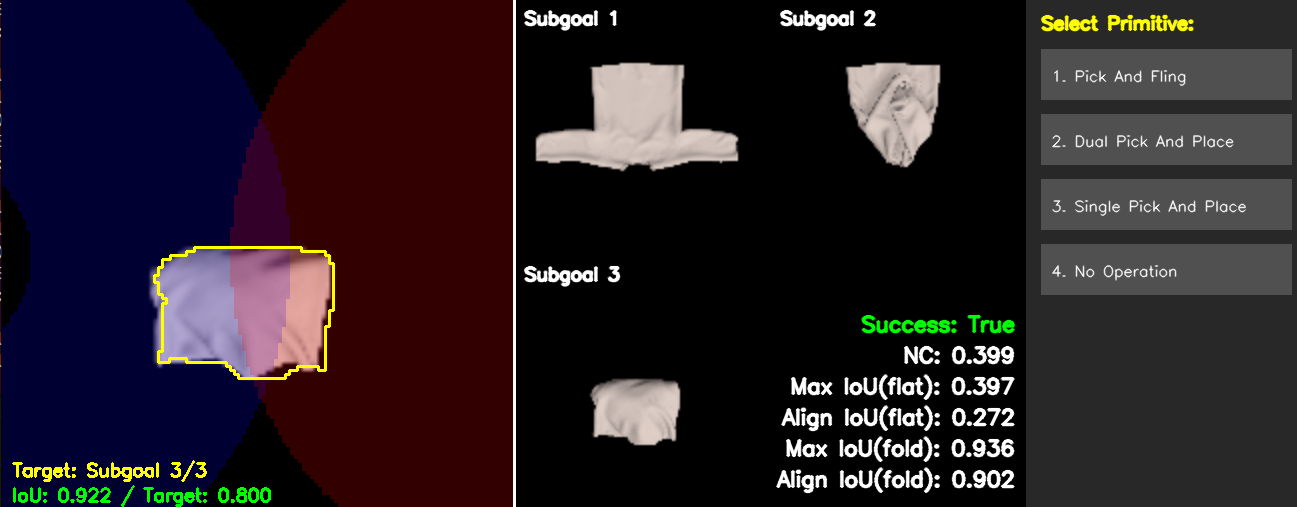
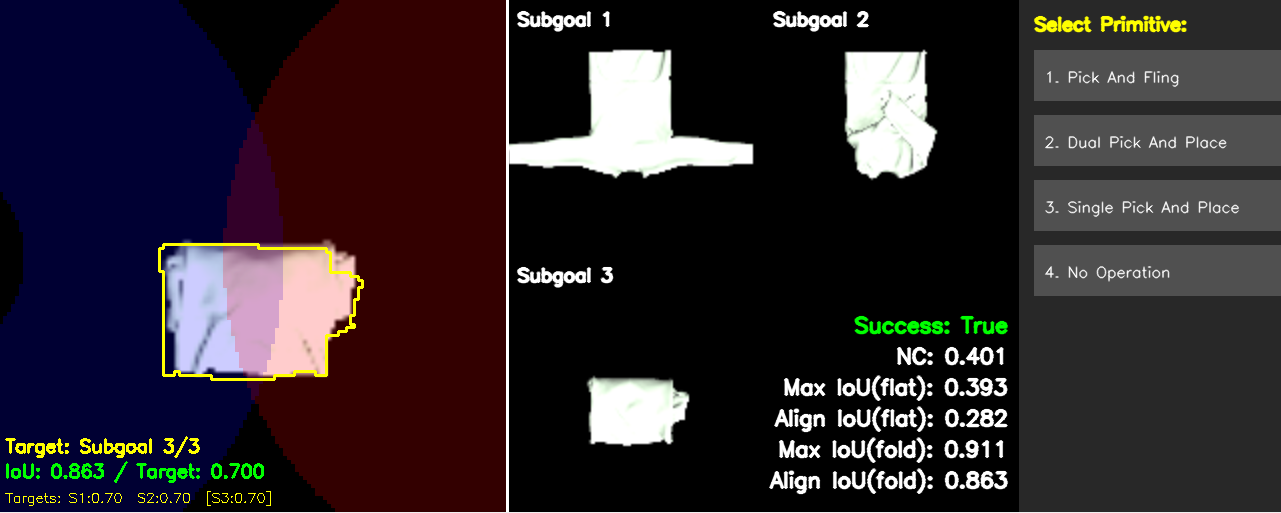
fix the bugs in the folding environment and polish appendix B

diff --git a/paper/example.tex b/paper/example.tex
@@ -280,7 +280,9 @@ We develop our proposed method MAGPIE based on the decoupled multi-primitive arc
 In this set of experiments, we benchmark MAGPIE against leading domain-specific garment-manipulation multi-primitive approaches in simulation. For non-unified baselines, we evaluate ClothFunnels \cite{canberk2022cloth} and ClothMate \cite{luo2025clothmate}. For unified framework baselines, we compare against UniFolding \cite{xue2023unifolding}. To ensure a fair comparison, we exclude methods that rely on step-wise language instructions.
 
 \paragraph{Simulation Experimental Setup}
-We evaluate MAGPIE across both simulation and physical domains. We build our simulation environment upon the ClothFunnels variant of the SoftGym benchmark \cite{lin2020softgym}, powered by the PyFlex physics engine \cite{li2018learning}. We source realistic garment meshes from the Cloth3D dataset \cite{bertiche2020cloth3d}, specifically selecting long-sleeve T-shirts, trousers, skirts, and dresses. For each category, our dataset comprises 200 training episodes, 30 validation episodes, and 30 evaluation episodes. To ensure robust policy learning, we utilise a diverse split of ``hard'' (highly crumpled with severe self-occlusion) and ``easy'' (semi-flattened) initial states, directly following the ClothFunnels methodology. Specifically, the 200 training trials use a mixture of ``hard'' and ``easy'' configurations, whereas the validation and evaluation trials strictly use ``hard'' initialisations.  We preserve most parameter distributions from the original ClothFunnels environment, where a top-down camera observes the centre of the world frame. However, for our novel central-alignment and folding tasks, we explicitly align simulation properties with our real-world setup. This includes matching workspace radii, dual-arm base placements, and camera configurations to mirror our physical hardware cell. Furthermore, we adjust fabric stiffness values and cloth particle radii to emulate realistic garment dynamics. A side-by-side comparison of these environmental parameters is detailed in Table \ref{tab:sim-real-params}. Detailed mechanics of the simulation physics, mesh rendering, and primitive trajectory parameters are deferred to Appendix \ref{app:architecture}. We set all the evaluation step strictly as 20---there is no early stopping at the success states.
+We evaluate MAGPIE across both simulation and physical domains. We build our simulation environment upon the ClothFunnels variant of the SoftGym benchmark \cite{lin2020softgym}, powered by the PyFlex physics engine \cite{li2018learning}. We source realistic garment meshes from the Cloth3D dataset \cite{bertiche2020cloth3d}, specifically selecting long-sleeve T-shirts, trousers, skirts, and dresses. For each category, our dataset comprises 200 training episodes, 30 validation episodes, and 30 evaluation episodes. To ensure robust policy learning, we utilise a diverse split of ``hard'' (highly crumpled with severe self-occlusion) and ``easy'' (semi-flattened) initial states, directly following the ClothFunnels methodology. Specifically, the 200 training trials use a mixture of ``hard'' and ``easy'' configurations, whereas the validation and evaluation trials strictly use ``hard'' initialisations.  We preserve most parameter distributions from the original ClothFunnels environment, where a top-down camera observes the centre of the world frame. However, for our novel central-alignment and folding tasks, we explicitly align simulation properties with our real-world setup. This includes matching workspace radii, dual-arm base placements, and camera configurations to mirror our physical hardware cell. Furthermore, we adjust fabric stiffness values and cloth particle radii to emulate realistic garment dynamics. A side-by-side comparison of these environmental parameters is detailed in Table \ref{tab:sim-real-params}. Detailed mechanics of the simulation physics, mesh rendering, and primitive trajectory parameters are deferred to Appendix \ref{app:architecture}. Evaluation trajectories are rolled out for a fixed step budget with no early stopping at the success states (per-task horizons are given below).
+
+\paragraph{Task Setups} We evaluate three simulated tasks that share the environment, garment source, and hard/easy initial-state split described above. For each episode the target geometry is produced once by rolling out a scripted keypoint demonstrator and cached (RGB, mask, depth, and particle positions per subgoal), so every method is scored against identical goals. In \emph{Canonicalisation-Alignment}, a crumpled garment must be flattened into a fixed canonical pose. \emph{Central-Alignment} shares this objective with a workspace-centred target pose and is evaluated across all garment categories. \emph{Goal-Directed Folding} requires a two-step fold executed \emph{through} the canonicalisation-alignment state, i.e. an ordered set of $K=3$ subgoals: the flattened/canonical state $S_0$, fold-1 $S_1$, and fold-2 $S_2$. The alignment tasks use a $20$-step horizon and folding a $25$-step horizon, both without early stopping. Full metric definitions and success criteria are provided in Appendix~\ref{app:eval_protocol}.
 
 \begin{table}[!t]
 \caption{Comparison of physical and simulated environmental parameters, highlighting the reduced sim-to-real gap in our experimental framework.}
@@ -306,22 +308,20 @@ Workspace Radius, arm~2$^{\dagger}$ & $(0, 1.5)$ & $(0.25, 0.90)$ \\
 {\footnotesize $^{\dagger}$\,(near, far) reach radius in metres.}
 \end{table}
 
-\paragraph{Metrics for Canonicalisation and Central Alignment Tasks in Simulation}
-For all continuous flattening metrics, we report the final value achieved at the end of the trajectory (capped at 20 steps):
+\paragraph{Metrics for Canonicalisation and Central Alignment} Reported at the final trajectory step (full definitions in Appendix~\ref{app:eval_protocol}):
 \begin{enumerate}
-    \item \textbf{Normalised Coverage (NC):} The ratio of the garment's current 2D projected area to its maximally flattened area, bounded in $[0, 1]$.
-    \item \textbf{Normalised Improvement (NI):} The relative coverage increase from the initial state, defined as $\text{clip}(\frac{c_t - c_0}{c_{\text{max}} - c_0}, 0, 1)$.
-    \item \textbf{Alignment Intersection-over-Union (A-IoU):} The IoU overlap between the current garment segmentation mask and the target goal mask.
-    \item \textbf{Success Rate (SR):} The percentage of trials simultaneously achieving $\text{NC} > 80\%$ and $\text{A-IoU} > 70\%$; we report both cross-trajectory success rate (C-SR) and last step success rate (LS-SR).
+    \item \textbf{Normalised Coverage (NC):} current projected garment area as a fraction of its fully flattened area.
+    \item \textbf{Normalised Improvement (NI):} coverage gain over the initial state, normalised to $[0,1]$.
+    \item \textbf{Alignment IoU (A-IoU):} direct mask overlap with the target goal (no re-alignment), rewarding the correct canonical pose.
+    \item \textbf{Success Rate (SR):} fraction of trials reaching $\text{NC}>80\%$ and $\text{A-IoU}>70\%$, reported cross-trajectory (C-SR) and at the last step (LS-SR).
 \end{enumerate}
 
-\paragraph{Metrics for Folding in Simulation}
-In simulation, we evaluate folding using fine-grained, particle-based geometric distances alongside vision-based metrics:
+\paragraph{Metrics for Folding} Reported at the final trajectory step (full definitions in Appendix~\ref{app:eval_protocol}):
 \begin{enumerate}
-    \item \textbf{Mean Particle Distance (MPD):} We apply rigid Procrustes alignment between the current ($\{\mathbf{p}_t^i\}_{i=1}^N$) and goal ($\{\mathbf{p}_g^i\}_{i=1}^N$) particle sets via Singular Value Decomposition (SVD) on centred point clouds to ensure translational and rotational invariance \cite{canberk2022cloth}.
-    \item \textbf{Mean Keypoint Distance (MKD):} Procrustes alignment applied strictly to designated semantic keypoints.
-    \item \textbf{Alignment Intersection-over-Union (A-IoU):} The IoU overlap between the current garment segmentation mask and the target goal mask.
-    \item \textbf{Sequential IoU-Based Success Rate (Sq-IoU-SR):} The demonstrated fold defines an ordered sequence of subgoals (the initial flattened, canonically aligned state plus each fold step). At each step the current mask is matched against this sequence with a sliding window over the most recent trajectory frames; the matched progress is thus re-estimated from the current observation, so a disturbed fold reverts to the appropriate earlier subgoal. A trial succeeds only if the trajectory reproduces the full subgoal sequence in order.
+    \item \textbf{Mean Particle Distance (MPD):} mean per-particle distance to the goal after rigid Procrustes alignment \cite{canberk2022cloth}.
+    \item \textbf{Alignment IoU (A-IoU):} direct mask overlap with the target fold (no re-alignment), as for flattening.
+    \item \textbf{Max IoU:} mask overlap with the target fold maximised over a rigid 2D rotation and translation, crediting a correct fold up to global pose.
+    \item \textbf{Sequential IoU-Based Success Rate (Sq-IoU-SR):} fraction of trials that reproduce the ordered fold subgoals $S_0,\dots,S_{K-1}$ within a consecutive window ending at the current step; the same criterion sets the target shown on the human interface.
 \end{enumerate}
 
 \begin{table*}[t!]
@@ -388,7 +388,7 @@ LS-SR $\uparrow$ & 0/30 & 1/30 & \cellcolor{red!25}7/30 & \cellcolor{yellow!25}1
 \subsection{Goal-Directed Folding in Simulation}
 \label{sec:exp_folding}
 
-Having established MAGPIE's flattening and alignment capabilities, we now evaluate its core competency: producing neat, structured folds directly from crumpled states. We conduct this evaluation in the \textit{goal-directed folding} environment, in which a long-sleeve garment must be manipulated from a highly crumpled initial configuration, through an intermediate canonicalisation-alignment state, and into a demonstrated sequence of target folded sub-goals (a two-step fold). Unlike the alignment tasks, success here is conditioned on reproducing the ordered sequence of intermediate folded geometries, making it substantially more sensitive to compounding errors and self-occlusion. We evaluate every method over 30 held-out ``hard'' crumpled initialisations of long-sleeve garments and report the folding metrics defined above---Mean Particle Distance (MPD), Mean Keypoint Distance (MKD), Alignment IoU (A-IoU), and the Sequential IoU-Based Success Rate (Sq-IoU-SR).
+Having established MAGPIE's flattening and alignment capabilities, we now evaluate its core competency: producing neat, structured folds directly from crumpled states. We conduct this evaluation in the \textit{goal-directed folding} environment, in which a long-sleeve garment must be manipulated from a highly crumpled initial configuration, through an intermediate canonicalisation-alignment state, and into a demonstrated sequence of target folded sub-goals (a two-step fold). Unlike the alignment tasks, success here is conditioned on reproducing the ordered sequence of intermediate folded geometries, making it substantially more sensitive to compounding errors and self-occlusion. We evaluate every method over 30 held-out ``hard'' crumpled initialisations of long-sleeve garments (a $25$-step horizon, no early stopping) and report the folding metrics defined above---Mean Particle Distance (MPD), Alignment IoU (A-IoU), Max IoU, and the Sequential IoU-Based Success Rate (Sq-IoU-SR).
 
 To isolate the sources of MAGPIE's folding performance, we compare the following approaches:
 \begin{itemize}
@@ -399,7 +399,7 @@ To isolate the sources of MAGPIE's folding performance, we compare the following
 \end{itemize}
 
 \begin{table}[!t]
-\caption{Goal-directed folding in simulation on long-sleeve garments (30 hard crumpled initialisations, two-step fold through canonicalisation-alignment). Distances are reported in normalised units; higher is better for A-IoU and Sq-IoU-SR, lower is better for MPD and MKD. \textbf{TODO: populate with final numbers.}}
+\caption{Goal-directed folding in simulation on long-sleeve garments (30 hard crumpled initialisations, two-step fold through canonicalisation-alignment). Distances are reported in normalised units; higher is better for A-IoU, Max IoU, and Sq-IoU-SR, lower is better for MPD. \textbf{TODO: populate with final numbers.}}
 \label{tab:sim-folding}
 \centering
 \small
@@ -410,8 +410,8 @@ To isolate the sources of MAGPIE's folding performance, we compare the following
 \textbf{Metric} & \textbf{All-Garment} & \textbf{LS-only} & \textbf{+\,Heuristic} & \textbf{Human} \\
 \midrule
 MPD $\downarrow$        & -- & -- & -- & -- \\
-MKD $\downarrow$        & -- & -- & -- & -- \\
 A-IoU $\uparrow$        & -- & -- & -- & -- \\
+Max IoU $\uparrow$      & -- & -- & -- & -- \\
 Sq-IoU-SR $\uparrow$    & -- & -- & -- & -- \\
 \bottomrule
 \end{tabular}
@@ -497,6 +497,7 @@ Despite achieving high alignment scores, a core limitation of our framework is i
 \paragraph{Future Work}
 Future directions will focus on broadening the validation envelope to encompass out-of-distribution, complex multi-layered garments and unseen fabric blends. We intend to integrate real-time tactile and force-torque feedback into the COT-FM integration steps, allowing the policy to dynamically sense fabric tension and friction coefficients during high-speed flinging actions, further reducing the sim-to-real gap.
 
+\textbf{TODO: also mention we use traditional neural network structure (such ask, MLP and CNNs) for accomplishing this work. In the future, we will investigate the usage of transformers.}
 
 \section{Conclusion}
 \label{sec:conclusion}
@@ -589,34 +590,43 @@ We optimise all networks end-to-end using the AdamW optimiser with a base learni
 
 
 \section{Integration of Other Methods}
-\subsection{ClothFunnels Integration}
-We transition the discretisation of actions from the environment directly into the policy, enabling the framework to output continuous coordinate vectors within a normalised pixel space. Consequently, the original dynamic unfolding and static placement operations are mapped seamlessly to continuous bimanual and single-arm spatial manoeuvres, respectively. Whereas the original implementation relied on a three-dimensional inverse-kinematic heuristic for the final folding sequence, our adaptation translates this process entirely into a planar, two-dimensional coordinate framework. Specifically, the original unified folding action is decomposed into a deterministic sequence comprising two individual single-arm placements followed by a simultaneous dual-arm manipulation. Furthermore, to guarantee physical plausibility, we dynamically integrate precise robotic reachability masks provided directly by the environment, eschewing the naive approximations previously generated within the policy. 
+We do not re-implement the baselines. Instead, we take each author's released code and adapt it to our framework. This keeps the comparison focused on the manipulation policy rather than the surrounding system. Every baseline reads the same top-down observation. Every baseline emits actions in our normalised pixel primitive space (\texttt{pick-and-fling}, single/dual \texttt{pick-and-place}, and \texttt{no-op}), with coordinates in $[-1,1]$. We grant each baseline the same environment-provided per-arm reachability masks. We also evaluate each one on the same tasks, initial states, and cached goals. For every baseline we first summarise the original method, then describe how we adapt its code.
 
-This adapted policy is calibrated to operate upon a $480 \times 480$ observation space, captured from a downward-facing camera elevated at two metres, which is subsequently downsampled and cropped to a $128 \times 128$ resolution for network inference. To accommodate this dimensionality reduction and necessary rotational augmentations, the system maintains three distinct coordinate representations: a tightly cropped transformed space, a rotated pre-transformed space, and an absolute original space. The inclusion of the absolute original space is critical for reorienting the directional vectors of the dynamic actions, ensuring the fabric is propelled vertically towards the top of the observation frame rather than horizontally from left to right as originally configured. Procedurally, the algorithm selects its initial unfolding primitives by identifying the maximal peaks across spatial action-value maps. Once a predefined horizon of $10$ flattening steps is completed, a convolutional keypoint detection network evaluates six primary semantic landmarks on the garment (specifically the shoulders, sleeves, and hem) to mathematically calculate and execute the final geometric fold.
+\subsection{ClothFunnels: Method, Architecture, Training and Inference}
+Cloth Funnels~\cite{canberk2022cloth} learns a \emph{canonicalised-alignment} objective. The objective funnels crumpled configurations into a narrow set of structured, fully-visible canonical poses, such as a T-shape for shirts, at a fixed 2D position and orientation. Simple heuristics can then fold the garment. The method parameterises manipulation as spatial action maps. It augments the $128{\times}128$ top-down RGB observation with a two-channel scale-invariant positional encoding. It then transforms this input across $16$ rotations and $6$ scales ($\{0.75,1.0,1.5,2.0,2.5,3.0\}$), giving $96$ inputs. A fully-convolutional value network predicts a dense per-pixel value map for every transform and each of two primitives: a dynamic dual-arm \texttt{pick-and-fling} and a quasi-static \texttt{pick-and-place}. The method factorises the reward as $R_{CA}=(1-\alpha)R_{C}+\alpha R_{A}$ ($\alpha=0.6$). The canonicalisation term $R_{C}$ measures per-vertex distance to the best-aligned goal, and the alignment term $R_{A}$ measures the residual rigid-transform error. The network uses one encoder per reward term, each with a decoder head per primitive. It trains self-supervised in simulation over roughly $12.5$k episodes, regressing each action's delta-reward $\Delta R_{CA}$ with an MSE loss under $\epsilon$-greedy exploration. At inference it scores every (rotation, scale, pixel) triple, masks out infeasible actions, and executes the arg-max. It recovers the pick and place pixels by inverting the chosen rotation-and-scale transform. A separate convolutional keypoint detector then supplies the landmarks for the final heuristic fold.
 
-\subsection{ClothMate Integration}
-As an architectural extension of the aforementioned methodology, the adaptation of ClothMate shares an identical foundation for environmental masking and spatial coordinate reconciliation. However, to refine the terminal flattening phase, it introduces a bimanual stretching manoeuvre in place of the independent single-arm placements utilised by ClothFunnels. Under this paradigm, the core spatial policy network is strictly responsible for parameterising the high-velocity dynamic unfolding actions. 
+\subsection{ClothFunnels: Integration into Our Framework}
+We move the action discretisation out of the environment and into the policy. The released code then outputs continuous coordinates in our normalised pixel space. This maps its dynamic unfolding and static placement onto our continuous bimanual and single-arm manoeuvres. The original code folds with a 3D inverse-kinematic heuristic. We replace this heuristic with a purely planar 2D formulation. We split the original unified fold into a fixed sequence: two single-arm placements, then one simultaneous dual-arm manipulation. We also feed the environment's exact per-arm reachability masks into the policy, which replaces its own coarse approximations.
 
-To govern the transition from dynamic unfolding to precise bimanual stretching, the framework employs a binary state classifier. This classifier evaluates the spatial arrangement of the fabric, triggering the stretching module exclusively when an empirical structural threshold is successfully surpassed—specifically, when the relative coverage area (RCA) score falls below $0.15$, indicating the garment is sufficiently spread. To prevent erroneous physical manipulation, a rigorous secondary validation mechanism is enforced: the associated U-Net classifier branch must also yield a predictive confidence exceeding $0.45$ in recognising the garment's topological state before the bimanual stretching manoeuvre is actively authorised and executed.
+The policy runs on a $480 \times 480$ observation from a downward-facing camera at two metres. We downsample and crop this observation to $128 \times 128$ for the network. The code keeps three coordinate frames to handle this crop and the rotational augmentations: a tightly cropped transformed space, a rotated pre-transformed space, and the absolute original space. We use the absolute original space to reorient the dynamic actions. This makes the fling drive the fabric upward in the frame rather than sideways as in the original setup. The policy selects its unfolding actions from the peaks of the spatial action-value maps. After $10$ flattening steps, a convolutional keypoint detector locates six semantic landmarks (the shoulders, sleeves, and hem) and computes the final fold.
 
-\subsection{Keypoint Localisation and Semantic Utilisation}
-A defining distinction between the two adapted methodologies lies in their respective strategies for semantic keypoint extraction—specifically, the quantity of landmarks predicted, their spatial locations, and their functional purpose within the manipulation pipeline. 
+The detector isolates six landmarks: the left and right shoulders, the top-left and top-right collar vertices, and the bottom-left and bottom-right hem vertices. The pipeline uses these landmarks only in the terminal phase. Once unfolding and flattening finish, the six keypoints anchor a deterministic fold. The shoulders and top corners set the inward sleeve fold, and the bottom hem keypoints set the final upward fold towards the collar. The six keypoints therefore act as absolute waypoints for the terminal fold.
 
-Within the ClothFunnels adaptation, the convolutional detection module isolates six distinct semantic landmarks: the left and right shoulders, the top-left and top-right collar vertices, and the bottom-left and bottom-right hem vertices. These six keypoints are utilised exclusively during the terminal phase of the manipulation episode. Once the dynamic unfolding and flattening phases are complete, these structural landmarks provide the geometric foundation for a deterministic, multi-step folding sequence. Specifically, the spatial relationship between the shoulders and the top corners parameterises the initial inward folding of the sleeves, whilst the bottom hem keypoints define the trajectory for the final upward fold towards the collar. Consequently, the six keypoints act as absolute waypoints for terminal geometric state transitions.
+\subsection{ClothMate: Method, Architecture, Training and Inference}
+ClothMate~\cite{luo2025clothmate} flattens garments from arbitrary configurations in a generalisable, data-efficient way. Its key insight is grasp--fling consistency: grasping the same point pair produces a consistent fling response regardless of the current crumpled state. It exploits this insight with a two-stage design. First it learns point-wise fling responses under a canonicalised, aligned configuration. Then it generalises to arbitrary states through a point-to-point projection. This design decouples state estimation from action prediction. The decoupling tames the infinite-DOF dynamics and self-occlusion of garments and improves data efficiency across categories. A spatial-action-map value network, as in Cloth Funnels, scores dynamic \texttt{fling} and \texttt{place} candidates over $16$ rotations at $128{\times}128$ resolution. It blends rigid and deformable value predictions, and we set the deformable weight to $0.4$. A U-Net predicts four garment-corner keypoints through a heatmap head and a garment-state score through a classification head. A low relative-coverage-area (RCA) reading switches the policy from flinging to a keypoint-driven bimanual \texttt{pick-and-stretch} that tensions the most contracted edge. It trains the value network self-supervised and supervises the U-Net on annotated corners and states. At inference it flings until the garment is spread, then parameterises an open-loop stretch from the four corners.
 
-Conversely, the ClothMate adaptation predicts a sparser configuration comprising exactly four primary corner keypoints: the top-left, top-right, bottom-left, and bottom-right vertices. Rather than facilitating a terminal folding sequence, these four landmarks function dynamically as a geometric validation and parameterisation mechanism during the active flattening phase. When the state classifier identifies that the garment is sufficiently spread, the relative horizontal distances between these keypoint pairs are assessed. This assessment serves a critical dual purpose: it first classifies the gross morphology of the garment (distinguishing trousers from upper-body garments to prevent excessive lateral tension on constrained features like waistbands), and subsequently identifies the most structurally contracted, wrinkled edge. Ultimately, these four keypoints dictate the spatial anchor constraints and directional vectors required to execute a safe, open-loop bimanual stretching manoeuvre.
+\subsection{ClothMate: Integration into Our Framework}
+Our ClothMate adaptation reuses the masking and coordinate handling of our Cloth Funnels adaptation. To refine the terminal flattening, it swaps the two single-arm placements for one bimanual stretch. The spatial policy network then handles only the high-velocity dynamic unfolding.
 
-\subsection{3D-to-2D Visibility and Occlusion Modelling to Generate Pointclouds for Unifolding}
+A binary state classifier governs the switch from flinging to stretching. It reads the fabric's spatial arrangement and triggers the stretch only when the relative coverage area (RCA) score drops below $0.15$, which marks a sufficiently spread garment. A second check guards against bad grasps. The U-Net classifier branch must also report a confidence above $0.45$ before the stretch runs.
 
-To robustly map the simulated 3D garment state to the 2D visual observation space, it is necessary to determine the exact subset of topological nodes (particles) that are unoccluded from the perspective of the camera sensor. This process constitutes a rigorous geometric projection pipeline followed by a depth-buffer occlusion test.
+The four U-Net corners drive validation and parameterisation during flattening, not a terminal fold. When the classifier flags a spread garment, the code measures the horizontal distances between the keypoint pairs. This measurement serves two purposes. It first classifies the garment's gross morphology, separating trousers from upper-body garments so the stretch avoids over-tensioning constrained parts like waistbands. It then finds the most contracted, wrinkled edge. Finally, the four corners set the anchor constraints and directions for a safe, open-loop bimanual stretch.
 
-Let the garment be discretised into $N$ particles, with their coordinates defined in the global world frame as $\mathbf{X}_w \in \mathbb{R}^{N \times 3}$. To compute the visibility mask, we first apply a rigid body transformation to map these points into the local coordinate frame of the camera. Using homogeneous coordinates $\tilde{\mathbf{X}}_w \in \mathbb{R}^{N \times 4}$, the camera-space coordinates $\mathbf{X}_c$ are obtained via the inverse extrinsic matrix $\mathbf{T}_{cw} \in \text{SE}(3)$:
+\subsection{UniFolding: Method, Architecture, Training and Inference}
+UniFolding~\cite{xue2023unifolding} unifies unfolding and folding in one policy, UFONet, that acts directly on a partial garment point cloud masked from RGB-D. The point-cloud input improves generalisation and reduces sensitivity to texture and shape. A sparse-convolution ResUNet3D encoder produces a $128$-d global feature and per-point $128$-d features, and a self-attention module refines them. Three heads consume these features. An action-classification head decides the unfolding-to-folding transition from the global feature. A fling head regresses $K$ grasp-keypoint candidates by attention-based offset voting in the canonical NOCS frame, which exploits garment bilateral symmetry, and a pairwise MLP then ranks the keypoint pairs. A pick-and-place head predicts the dual-arm pick and place points for fold-1 and fold-2, and a drag primitive covers unreachable grasps. Training is sample-efficient and human-centric. It uses offline Virtual-Reality demonstrations ($\sim$16\,h across long- and short-sleeve shirts), a self-supervised simulation stage that trains the pairwise scoring head, and an online real-world human-in-the-loop stage with pairwise-preference annotations. The losses combine a variety (minimum-over-$N$) loss and a smooth-$L_1$ loss for the keypoints and pick/place, plus a cross-entropy loss on the preferences. At inference it classifies the stage, scores fling keypoint pairs for unfolding or pick/place points for folding, and runs them as dual-arm $\mathrm{SE}(3)$ actions.
+
+\subsection{UniFolding: Integration into Our Framework}
+UniFolding acts on 3D point clouds, but our environment exposes a top-down RGB-D observation. Bridging the two takes three steps. We synthesise the partial point cloud the network expects, express it in the network's canonical virtual frame, and project the predicted 3D poses back to our normalised pixel actions. We build the visible point cloud by testing every mesh particle for camera visibility, as we derive below. We then map it into the virtual frame with the world-to-virtual rigid transform and zero its minimum height. We pass this point cloud to the network. We project the returned left and right pick and place poses onto the image plane using SoftGym's exact camera intrinsics and extrinsics, then crop and normalise them to $[-1,1]$. We map each predicted action type onto our primitives: \texttt{fling} to \texttt{pick-and-fling}; \texttt{fold}, \texttt{pick-and-place}, and \texttt{drag} to \texttt{dual pick-and-place}; and single placements to \texttt{single pick-and-place}. We enforce reachability with the same per-arm ring workspace as our method, so infeasible grasps trigger UniFolding's native drag fallbacks. The rest of this subsection details the visibility computation.
+
+To map the simulated 3D garment state to the 2D observation, we first find which particles the camera can see. We run a geometric projection followed by a depth-buffer occlusion test.
+
+We discretise the garment into $N$ particles with world-frame coordinates $\mathbf{X}_w \in \mathbb{R}^{N \times 3}$. We first map these points into the camera frame with a rigid transformation. In homogeneous coordinates $\tilde{\mathbf{X}}_w \in \mathbb{R}^{N \times 4}$, we apply the inverse extrinsic matrix $\mathbf{T}_{cw} \in \text{SE}(3)$ to obtain the camera-space coordinates $\mathbf{X}_c$:
 
 \begin{equation}
     \mathbf{X}_c = (\mathbf{T}_{cw} \tilde{\mathbf{X}}_w^T)^T
 \end{equation}
 
-For a given particle $i$, its camera-frame coordinates are denoted as $\mathbf{x}_{c,i} = [x_i, y_i, z_i]^T$, where $z_i$ represents the planar depth from the camera sensor. We subsequently model the perspective projection using the pinhole camera intrinsic matrix $\mathbf{K} \in \mathbb{R}^{3 \times 3}$. The continuous 2D pixel coordinates $[u_i, v_i]^T$ on the image plane are derived via the perspective divide:
+We write particle $i$'s camera-frame coordinates as $\mathbf{x}_{c,i} = [x_i, y_i, z_i]^T$, where $z_i$ is the depth from the camera. We then model the perspective projection with the pinhole intrinsic matrix $\mathbf{K} \in \mathbb{R}^{3 \times 3}$. The perspective divide gives the 2D pixel coordinates $[u_i, v_i]^T$:
 
 \begin{equation}
     \lambda_i \begin{bmatrix} u_i \\ v_i \\ 1 \end{bmatrix} = \mathbf{K} \mathbf{x}_{c,i}
@@ -624,27 +634,108 @@ For a given particle $i$, its camera-frame coordinates are denoted as $\mathbf{x
 
 where the scaling factor $\lambda_i$ equates to the planar depth $z_i$. 
 
-A particle is deemed theoretically visible if it resides within the camera's viewing frustum. We define the frustum visibility indicator $\mathcal{V}_{\text{frustum}}(i)$ for an image of dimensions $W \times H$ as:
+A particle is visible only if it lies within the camera's viewing frustum. We define the frustum visibility indicator $\mathcal{V}_{\text{frustum}}(i)$ for an image of dimensions $W \times H$ as:
 
 \begin{equation}
     \mathcal{V}_{\text{frustum}}(i) = \mathbb{I}(z_i > 0 \land 0 \le u_i < W \land 0 \le v_i < H)
 \end{equation}
 
-However, self-occlusion is highly prevalent in highly deformable objects such as crumpled garments. To resolve this, we sample the environment's rendered Z-buffer, denoted as $\mathcal{D} \in \mathbb{R}^{H \times W}$, which encodes the depth of the closest rendered surface at each discrete pixel coordinate. We evaluate the continuous pixel coordinates $(u_i, v_i)$ by rounding them to their nearest discrete indices and comparing the particle's analytical depth $z_i$ against the empirical depth buffer.
+Crumpled garments self-occlude heavily, so the frustum test alone is not enough. To resolve this, we sample the environment's rendered Z-buffer $\mathcal{D} \in \mathbb{R}^{H \times W}$, which holds the depth of the closest rendered surface at each pixel. We round each pixel coordinate $(u_i, v_i)$ to the nearest index and compare the particle's depth $z_i$ against this buffer.
 
-To account for the volumetric thickness of the simulated nodes and to mitigate floating-point inaccuracies (frequently observed as Z-fighting in OpenGL rendering pipelines), we introduce the particle radius $r$ and a regularisation margin $\epsilon$. The occlusion indicator $\mathcal{V}_{\text{occlusion}}(i)$ is thus formulated as:
+We also account for the volumetric thickness of the particles and for floating-point noise (Z-fighting in OpenGL pipelines). We therefore add the particle radius $r$ and a margin $\epsilon$. This gives the occlusion indicator $\mathcal{V}_{\text{occlusion}}(i)$:
 
 \begin{equation}
     \mathcal{V}_{\text{occlusion}}(i) = \mathbb{I}(z_i - r \le \mathcal{D}(\lfloor v_i \rceil, \lfloor u_i \rceil) + \epsilon)
 \end{equation}
 
-Ultimately, the global visibility mask $\mathcal{V} \in \{0, 1\}^N$ for the entire point cloud is yielded by the logical conjunction of the frustum and occlusion constraints:
+We finally combine the two constraints. The logical conjunction of the frustum and occlusion tests yields the global visibility mask $\mathcal{V} \in \{0, 1\}^N$:
 
 \begin{equation}
     \mathcal{V}(i) = \mathcal{V}_{\text{frustum}}(i) \land \mathcal{V}_{\text{occlusion}}(i)
 \end{equation}
 
-This formulation ensures that the resultant point cloud provided to the perception network accurately reflects only the exposed surfaces of the garment, discarding hidden topological layers whilst preserving spatial fidelity.
+This mask keeps only the exposed surfaces of the garment. It discards the hidden layers, so the point cloud we feed to the network reflects what the camera actually sees.
+
+\section{Evaluation Metrics} \label{app:eval_protocol}
+
+This appendix details the exact implementation of the evaluation metrics reported in the Experiments
+(Section~\ref{sec:experiments}), so that the numbers in
+Tables~\ref{tab:longsleeve-flattening}~and~\ref{tab:sim-folding} are reproducible. All quantities are
+computed per step from the top-down garment segmentation mask; the alignment tasks use a $20$-step
+horizon and the folding task a $25$-step horizon, with \emph{no} early stopping at success states, so
+every metric is well defined throughout the trajectory.
+
+\subsection{Coverage-based metrics}
+Let $c_t$ be the garment's 2D projected area (mask pixel count) at step $t$, $c_0$ the initial area,
+and $c_{\text{max}}$ its fully flattened reference area (measured once from the flattened canonical
+mesh).
+\begin{itemize}
+    \item \textbf{Normalised Coverage (NC)}: $\mathrm{NC}_t = c_t / c_{\text{max}} \in [0,1]$.
+    \item \textbf{Normalised Improvement (NI)}: the relative coverage gain over the initial state,
+    $\mathrm{NI}_t = \mathrm{clip}\!\left(\frac{c_t - c_0}{\max(c_{\text{max}} - c_0,\,0) + \varepsilon},\, 0,\, 1\right)$,
+    with a small guard $\varepsilon = 10^{-3}$ to avoid division by zero on near-flat initialisations.
+\end{itemize}
+
+\subsection{Alignment IoU versus Max IoU}
+\label{app:iou_variants}
+We use two mask-IoU operators, and the distinction is important because they measure different things.
+Both first resize the compared masks to a common $128{\times}128$ grid.
+\begin{itemize}
+    \item \textbf{Alignment IoU (A-IoU)}: the direct overlap $\mathrm{IoU}(A,B)=|A\cap B|/|A\cup B|$
+    between the current mask $A$ and the target mask $B$, with \emph{no} re-alignment. It is therefore
+    sensitive to the garment's global position and orientation, which is desirable because reaching a
+    specific canonical / folded pose is part of the task. This single definition is used for the
+    reported A-IoU in \emph{both} the flattening and folding experiments, for the alignment success
+    criterion, and for the folding subgoal matching that drives Sq-IoU-SR.
+    \item \textbf{Max IoU}: the \emph{maximum} overlap achievable under a rigid 2D alignment of the
+    current mask onto the target, $\max_{\theta,\mathbf{t}} \mathrm{IoU}(R_{\theta}A + \mathbf{t},\,B)$,
+    implemented as a coarse $5^{\circ}$ rotation sweep (refined to $1^{\circ}$) combined with an FFT
+    cross-correlation best-translation search. It is rotation- and translation-invariant, so a
+    correctly shaped but globally rotated or shifted garment is still credited. We report it
+    \emph{additionally} for the folding experiments, as a pose-invariant complement to the A-IoU that
+    isolates fold shape quality from residual global pose error; it does not enter any success
+    criterion.
+\end{itemize}
+For every target the IoU is taken as the maximum over all cached goal variations of the demonstrated
+sequence.
+
+\subsection{Particle-based folding metric}
+Given the current particle set $\{\mathbf{p}_t^i\}_{i=1}^{N}$ and the goal set
+$\{\mathbf{p}_g^i\}_{i=1}^{N}$, the \textbf{Mean Particle Distance (MPD)} first applies a rigid
+Procrustes alignment (SVD of the centred point clouds) to remove global translation and rotation, then
+reports the mean Euclidean residual over all $N$ particles in normalised units (lower is better).
+
+\subsection{Success-rate definitions}
+\paragraph{Flattening / alignment (C-SR, LS-SR).} A step is counted as successful when it
+simultaneously satisfies $\mathrm{NC} > 0.8$ and $\text{A-IoU} > 0.7$. We report the
+cross-trajectory success rate \textbf{C-SR} (the trial succeeds if \emph{any} step meets the
+criterion) and the last-step success rate \textbf{LS-SR} (only the final step is checked). These
+reporting thresholds ($0.8/0.7$) are applied in the evaluation pipeline and are intentionally distinct
+from the tighter constants used inside the environment for reward shaping and control; the latter never
+enter the reported numbers.
+
+\paragraph{Folding (Sq-IoU-SR).}
+\label{app:sq_iou_sr}
+The demonstrated fold defines an ordered set of $K = \texttt{goal\_steps}+1$ subgoals: the flattened /
+canonical state $S_0$ followed by each fold step (for the two-step fold, $K=3$: $S_0$, fold-1 $S_1$,
+fold-2 $S_2$). Each subgoal $g$ has an Alignment-IoU matching threshold $\tau_g$ (we use
+$\tau=[0.7,0.7,0.7]$). A trial is scored successful the first time the \textbf{last $K$ trajectory
+steps, in order and ending at the current step}, match $S_0, S_1, \dots, S_{K-1}$ respectively: step
+$t{-}(K{-}1)$ matches $S_0$, \dots, step $t$ matches $S_{K-1}$, each with Alignment IoU above its
+threshold. Once achieved, success
+latches and is held for as long as the current mask still matches the final subgoal $S_{K-1}$; a
+subsequently disturbed fold un-latches it.
+
+The same in-order suffix criterion drives the target subgoal displayed on the human interface
+(Fig.~\ref{fig:human_interface}): the shown target is $S_{a}$, where $a$ is one past the furthest
+subgoal reached by such an in-order suffix ending at the current step. Consequently a garment that is
+being re-flattened after a failed fold correctly reverts to the flattened subgoal $S_0$ rather than
+jumping ahead to a later fold, because a spread garment matches no later fold mask. As an exception,
+whenever the current mask already matches the final subgoal $S_{K-1}$ above its threshold, the
+interface holds $S_{K-1}$ as the target---mirroring the latched success check above---so a garment the
+environment already counts as a completed fold is never shown as needing re-flattening even if an
+intervening corrective step has broken the strict $S_0\!\to\!\dots\!\to\!S_{K-1}$ window. This keeps
+the displayed target consistent with the reported success flag.
 
 \section{Real Robot Setup} \label{sec:real-world-setup}
 

diff --git a/env/softgym_garment/tasks/garment_folding.py b/env/softgym_garment/tasks/garment_folding.py
@@ -228,13 +228,41 @@ class GarmentFoldingTask(GarmentTask):
         current_info = trj_infos[-1]
 
         # IoU of the current state against every subgoal, using the environment's own
-        # subgoal-matching function (the same one that drives success).
+        # subgoal-matching function (the same one that drives success). Kept for the
+        # displayed overlay numbers below (active_subgoal_iou / algn_IoU).
         subgoal_ious = [self._iou_for_goal_step(arena, current_info, g) for g in range(K)]
 
+        # Furthest subgoal reached as a CONTIGUOUS temporal sequence ending at the current
+        # step: the last (g+1) trajectory steps must match subgoals 0..g in order. This
+        # mirrors success()'s last-K window (see success(), the range(K) sub-goal check),
+        # so the overlay stays in lock-step with the success criterion. A per-frame max
+        # over subgoal IoUs (the previous approach) could not tell forward progress from a
+        # regression: a crumpled state mid re-flatten incidentally matches a later fold
+        # subgoal and made the overlay jump ahead to the final target. Requiring a clean
+        # flat->fold1(->fold2) suffix ending *now* fixes that, since a re-flattening
+        # garment has no such suffix and correctly falls back to the flattened subgoal.
+        N = len(trj_infos)
         achieved = -1
-        for g in range(K):
-            if subgoal_ious[g] >= self.iou_thresholds[g]:
+        for g in range(min(K, N)):
+            if all(
+                self._iou_for_goal_step(arena, trj_infos[N - 1 - g + j], j)
+                >= self.iou_thresholds[j]
+                for j in range(g + 1)
+            ):
                 achieved = g
+
+        # Hold the final subgoal whenever the current frame still matches it, mirroring
+        # success()'s latched branch (the `has_succeeded` check compares only the current
+        # mask to the final goal). With stop_on_success=False the episode continues past a
+        # first success, and a corrective step can break the clean flat->fold1->fold2
+        # suffix above while the fold itself is still held; without this guard the overlay
+        # would tell the user to re-flatten a garment the environment already counts as a
+        # completed fold. This uses the current frame only, so (unlike gating on the
+        # lagging `has_succeeded`) it also fires on the very step success first triggers,
+        # and it does not re-open the re-flatten bug: a spread/crumpled garment does not
+        # match the compact final fold, so the guard stays inactive during re-flattening.
+        if subgoal_ious[K - 1] >= self.iou_thresholds[K - 1]:
+            achieved = K - 1
         active_idx = min(achieved + 1, K - 1)
 
         # IoU of the current state against the active target subgoal, exposed so the